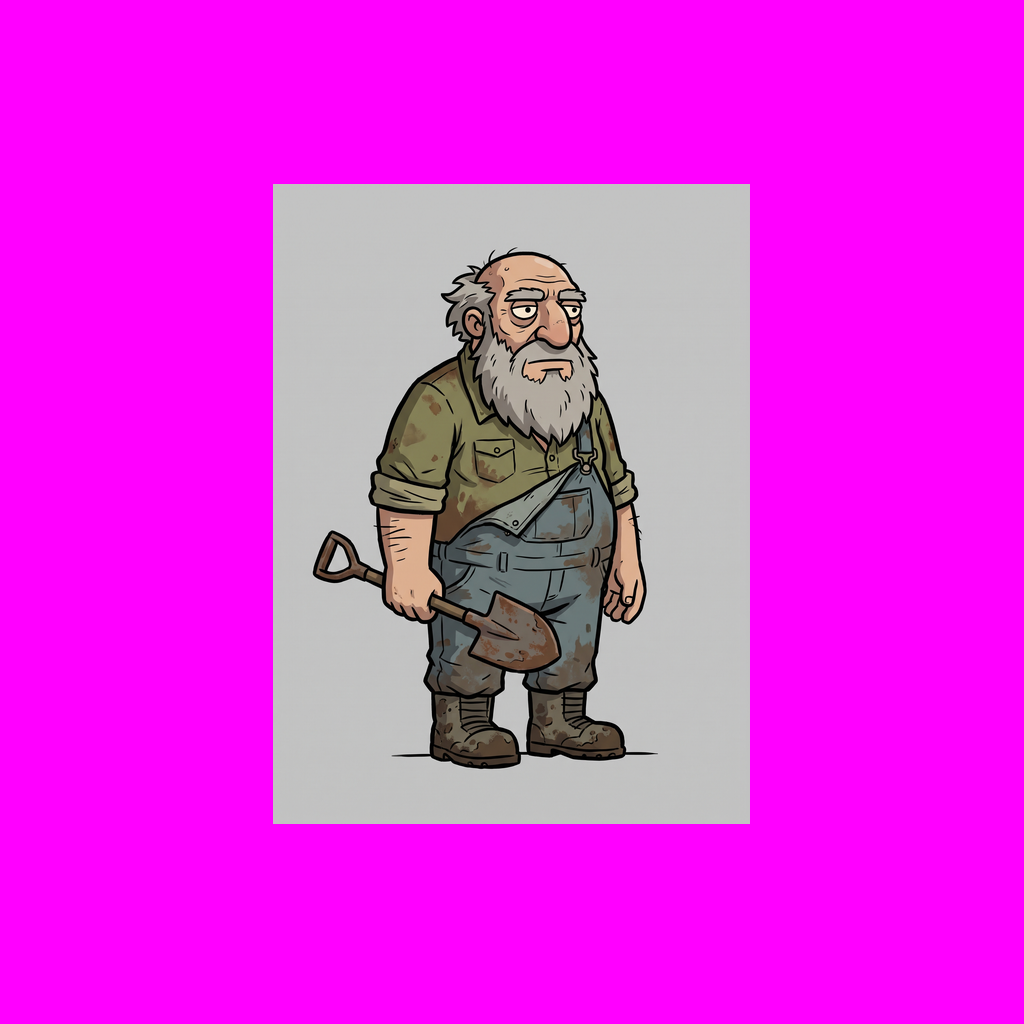
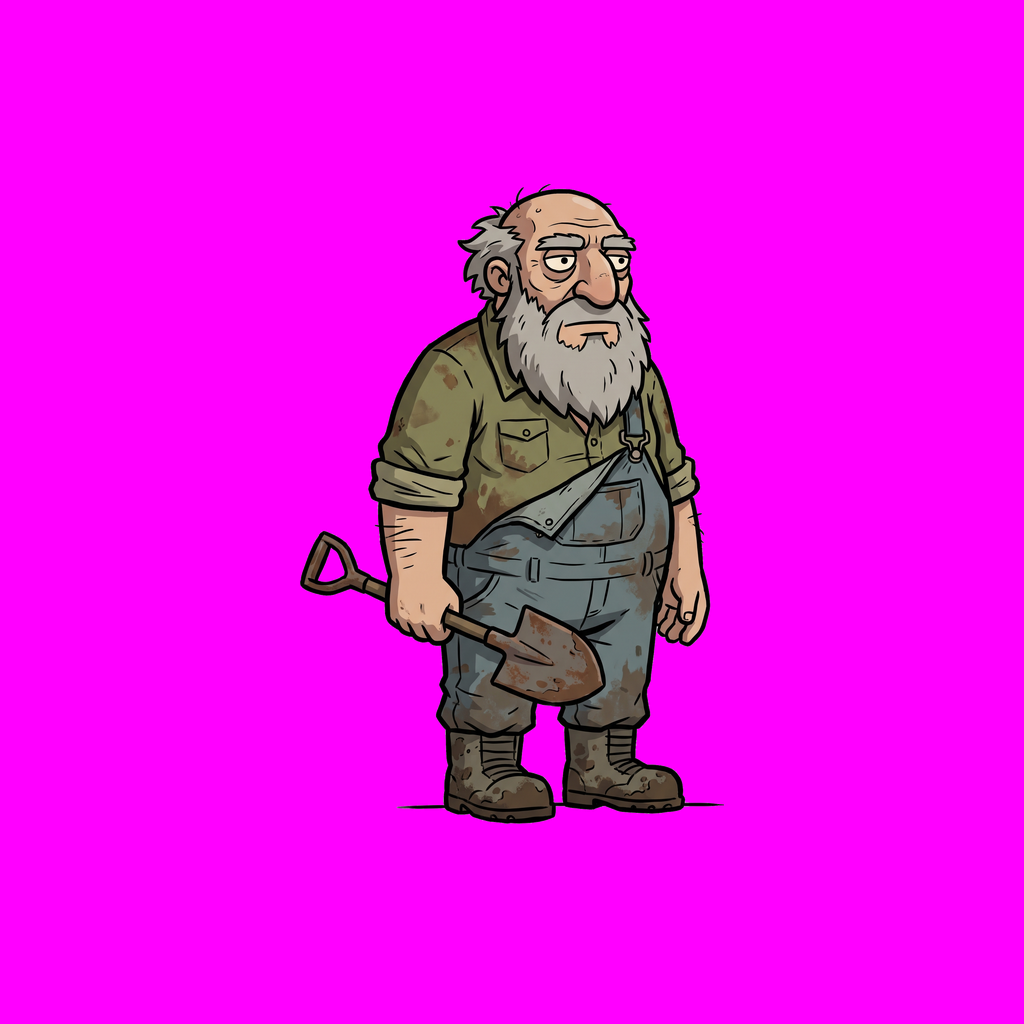
ded transparent source; keying fix

Changed region(s): [[0.25, 0.1562, 0.75, 0.8125]]

diff --git a/tools/anim_process.py b/tools/anim_process.py
@@ -30,7 +30,6 @@ def key(a):
         sizes = ndimage.sum(fg, lab, range(1, n + 1))
         keep = [i + 1 for i, s in enumerate(sizes) if s > sizes.max() * 0.02]
         fg = np.isin(lab, keep)
-    fg = ndimage.binary_fill_holes(fg)
     return fg
 
 masks = [key(a) for a in frames]
